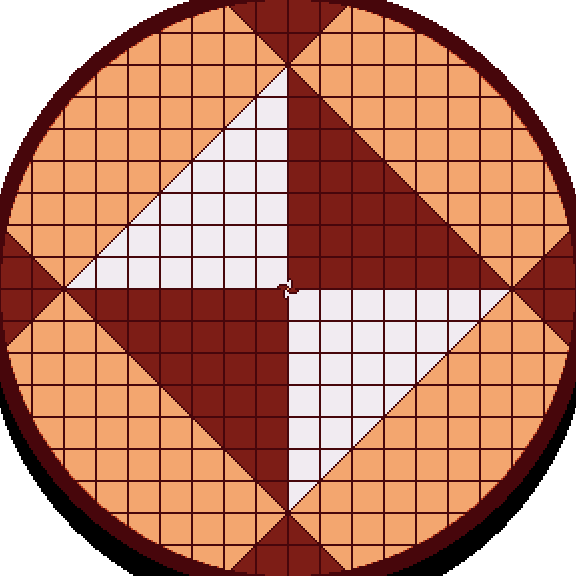
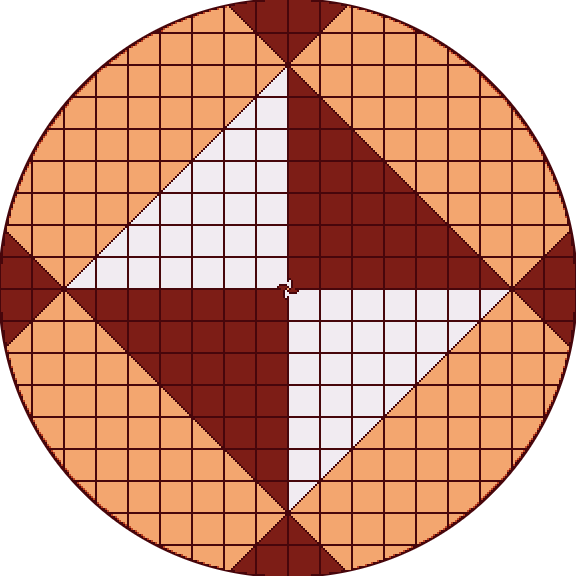
Board designs work

diff --git a/style/main.css b/style/main.css
@@ -299,16 +299,23 @@ body.darkMode .bg-svg {
 .game-container.pixelsho2 .bg-svg {
   background-image: url(pixelshoboard2.png);
 }
-.game-container.vescucci .bg-svg,
-.game-container.vescucciBoard .bg-svg {
+.game-container.vescucci .bg-svg {
   background-image: url(vescucciboard.png);
 }
-.game-container.xiangqi .bg-svg,
-.game-container.xiangqiBoard .bg-svg {
+.game-container.xiangqi .bg-svg {
   background-image: url(xiangqiboard.svg);
 }
 .game-container.mayfairBoard .bg-svg {
   background-image: url(board_mayfair.png);
+}
+.game-container.vescucciBoard .bg-svg {
+  background-image: url(vescucciboard.png);
+}
+.game-container.xiangqiBoard .bg-svg {
+  background-image: url(xiangqiboard.svg);
+}
+.game-container.pixelshoBoard .bg-svg {
+  background-image: url(pixelshoboard.png);
 }
 
 figure > div {

diff --git a/js/PaiShoMain.js b/js/PaiShoMain.js
@@ -52,7 +52,8 @@ var paiShoBoardDesignTypeValues = {
 	default: "default",
 	mayfair: "mayfair",
 	vescucci: "vescucci",
-	xiangqi: "xiangqi"
+	xiangqi: "xiangqi",
+	pixelsho: "pixelsho"
 };
 
 function getTileDesignTypeDisplayName(tileDesignTypeKey) {
@@ -565,6 +566,9 @@ function togglePaiShoBoardDesigns() {
 			newPaiShoBoardKey = paiShoBoardDesignTypeValues.xiangqi;
 			break;
 		case paiShoBoardDesignTypeValues.xiangqi:
+			newPaiShoBoardKey = paiShoBoardDesignTypeValues.pixelsho;
+			break;
+		case paiShoBoardDesignTypeValues.pixelsho:
 			newPaiShoBoardKey = paiShoBoardDesignTypeValues.default;
 			break;
 	}
